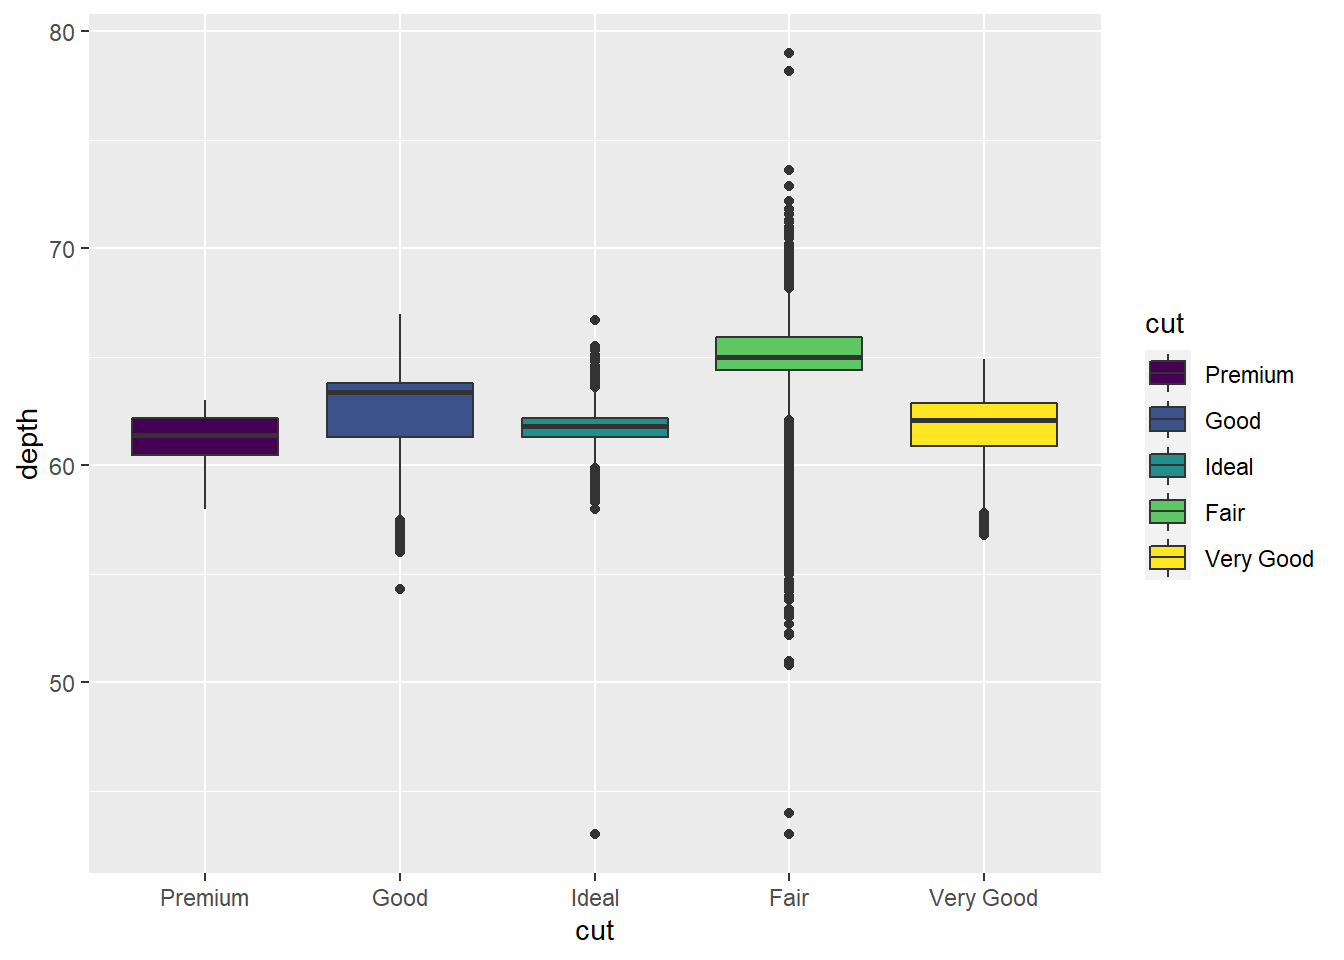
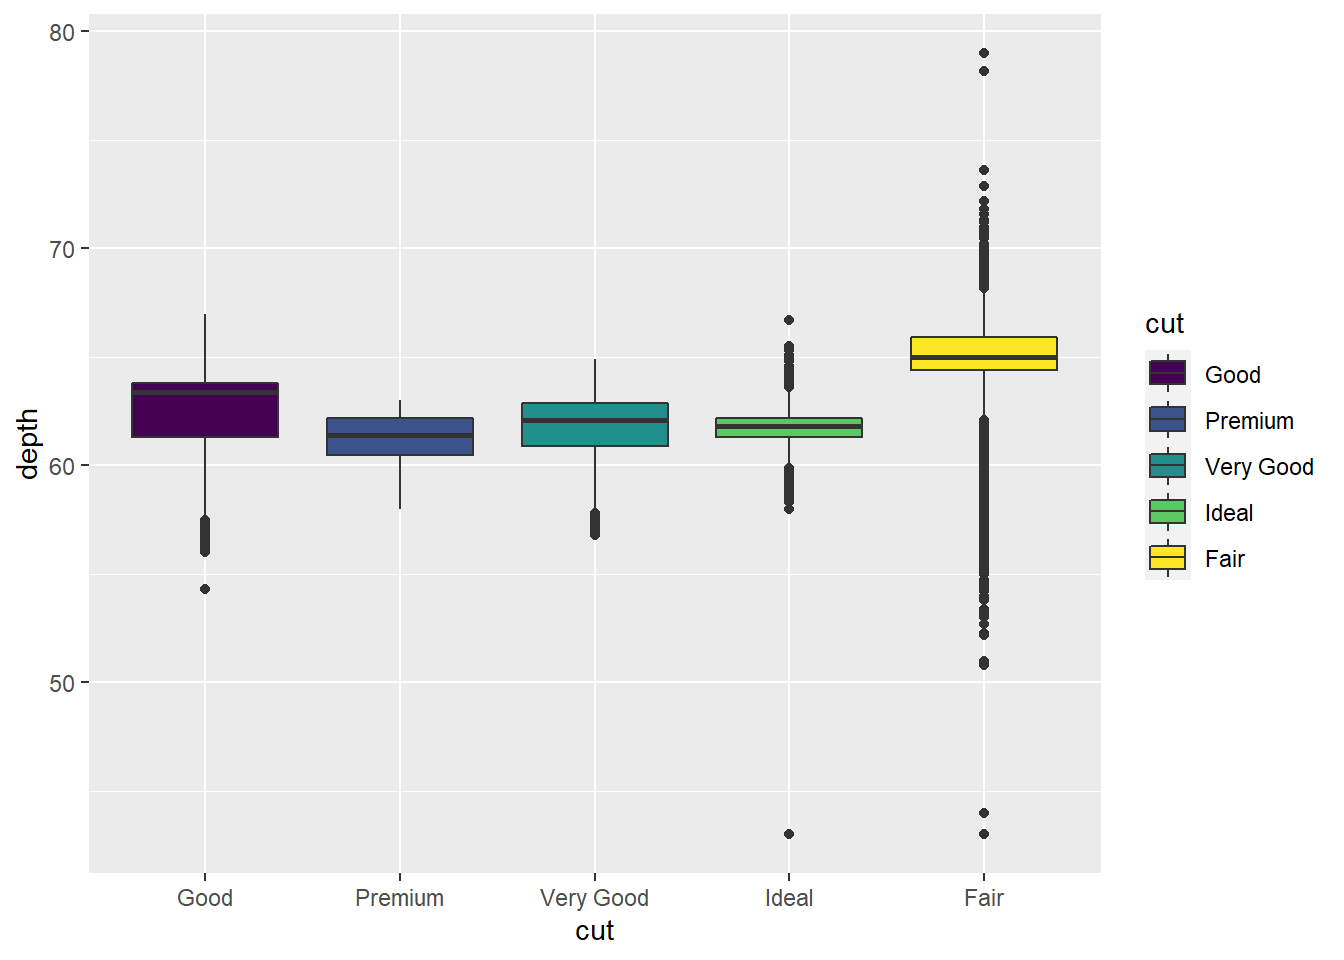
update

diff --git a/content/functions/functions-presentation-ROGASH.html b/content/functions/functions-presentation-ROGASH.html
@@ -1,7 +1,7 @@
 ---
 title: 'forcats::fct_relevel'
 author: "Lisa Rogash"
-date: "2021-02-17"
+date: "2021-02-18"
 menu:
   functions:
     weight: 10
@@ -54,7 +54,7 @@ data(diamonds)</code></pre>
 <pre class="r"><code>diamonds &lt;- diamonds %&gt;% 
   mutate(cut = fct_shuffle(cut))
 levels(diamonds$cut)</code></pre>
-<pre><code>## [1] &quot;Premium&quot;   &quot;Good&quot;      &quot;Ideal&quot;     &quot;Fair&quot;      &quot;Very Good&quot;</code></pre>
+<pre><code>## [1] &quot;Good&quot;      &quot;Premium&quot;   &quot;Very Good&quot; &quot;Ideal&quot;     &quot;Fair&quot;</code></pre>
 <pre class="r"><code>diamonds %&gt;%
  ggplot(aes(x=cut,y=depth,fill=cut)) +
   geom_boxplot()</code></pre>
@@ -65,14 +65,14 @@ levels(diamonds$cut)</code></pre>
 <pre class="r"><code>diamonds &lt;- diamonds %&gt;% 
   mutate(cut = fct_relevel(cut, &quot;Fair&quot;))
 levels(diamonds$cut)</code></pre>
-<pre><code>## [1] &quot;Fair&quot;      &quot;Premium&quot;   &quot;Good&quot;      &quot;Ideal&quot;     &quot;Very Good&quot;</code></pre>
+<pre><code>## [1] &quot;Fair&quot;      &quot;Good&quot;      &quot;Premium&quot;   &quot;Very Good&quot; &quot;Ideal&quot;</code></pre>
 <blockquote>
 <p>If you want to move a value to a different spot, you add in the argument “after” which you set to the integer value of the spot you want the value to be after. If you want the value at the end, but you don’t know how many levels there are, you can use <code>after=Inf</code> (don’t forget the capital ‘I’!).</p>
 </blockquote>
 <pre class="r"><code>diamonds &lt;- diamonds %&gt;% 
   mutate(cut = fct_relevel(cut, &quot;Good&quot;, after=1))
 levels(diamonds$cut)</code></pre>
-<pre><code>## [1] &quot;Fair&quot;      &quot;Good&quot;      &quot;Premium&quot;   &quot;Ideal&quot;     &quot;Very Good&quot;</code></pre>
+<pre><code>## [1] &quot;Fair&quot;      &quot;Good&quot;      &quot;Premium&quot;   &quot;Very Good&quot; &quot;Ideal&quot;</code></pre>
 <blockquote>
 <p>If you want to move multiple values, you can set your second argument to a vector of the elements you want to move.</p>
 </blockquote>
@@ -92,7 +92,7 @@ levels(diamondssort$cut)</code></pre>
 diamondssample &lt;- diamonds %&gt;% 
   mutate(cut = fct_relevel(cut, sample))
 levels(diamondssample$cut)</code></pre>
-<pre><code>## [1] &quot;Premium&quot;   &quot;Fair&quot;      &quot;Very Good&quot; &quot;Good&quot;      &quot;Ideal&quot;</code></pre>
+<pre><code>## [1] &quot;Good&quot;      &quot;Very Good&quot; &quot;Premium&quot;   &quot;Fair&quot;      &quot;Ideal&quot;</code></pre>
 <pre class="r"><code>#reverses the order
 diamondsrev &lt;- diamonds %&gt;% 
   mutate(cut = fct_relevel(cut, rev))

diff --git a/content/class/07-class.html b/content/class/07-class.html
@@ -35,7 +35,8 @@ editor_options:
 
 <div id="class-video" class="section level2">
 <h2>Class Video</h2>
-<p>To be updated after class</p>
+<iframe width="560" height="315" src="https://www.youtube.com/embed/HiLrucrzYJM" frameborder="0" allow="accelerometer; autoplay; clipboard-write; encrypted-media; gyroscope; picture-in-picture" allowfullscreen>
+</iframe>
 </div>
 <div id="slides" class="section level2">
 <h2>Slides</h2>

diff --git a/content/functions/count_NGarimella.html b/content/functions/count_NGarimella.html
@@ -1,7 +1,7 @@
 ---
 title: 'dplyr::count()'
 author: "Nathalie Garimella"
-date: "2021-02-17"
+date: "2021-02-18"
 output: html_document
 menu:
   functions:

diff --git a/content/functions/fxns-geom_smooth-KRAMARZ.html b/content/functions/fxns-geom_smooth-KRAMARZ.html
@@ -1,7 +1,7 @@
 ---
 title: 'ggplot2::geom_smooth()'
 author: "Jessica Kramarz"
-date: "2021-02-17"
+date: "2021-02-18"
 menu:
   functions:
     weight: 2

diff --git a/content/functions/breakspretty.html b/content/functions/breakspretty.html
@@ -1,7 +1,7 @@
 ---
 title: 'scales::breaks_pretty()'
 author: "Sarah Gothard"
-date: "2021-02-17"
+date: "2021-02-18"
 menu:
   functions:
     weight: 7

diff --git a/content/functions/presentation_slicemax_Hopkins_v2.html b/content/functions/presentation_slicemax_Hopkins_v2.html
@@ -1,7 +1,7 @@
 ---
 title: 'dplyr::slice_max()'
 author: "Bradley Hopkins"
-date: "2021-02-17"
+date: "2021-02-18"
 menu:
   functions:
     weight: 3
